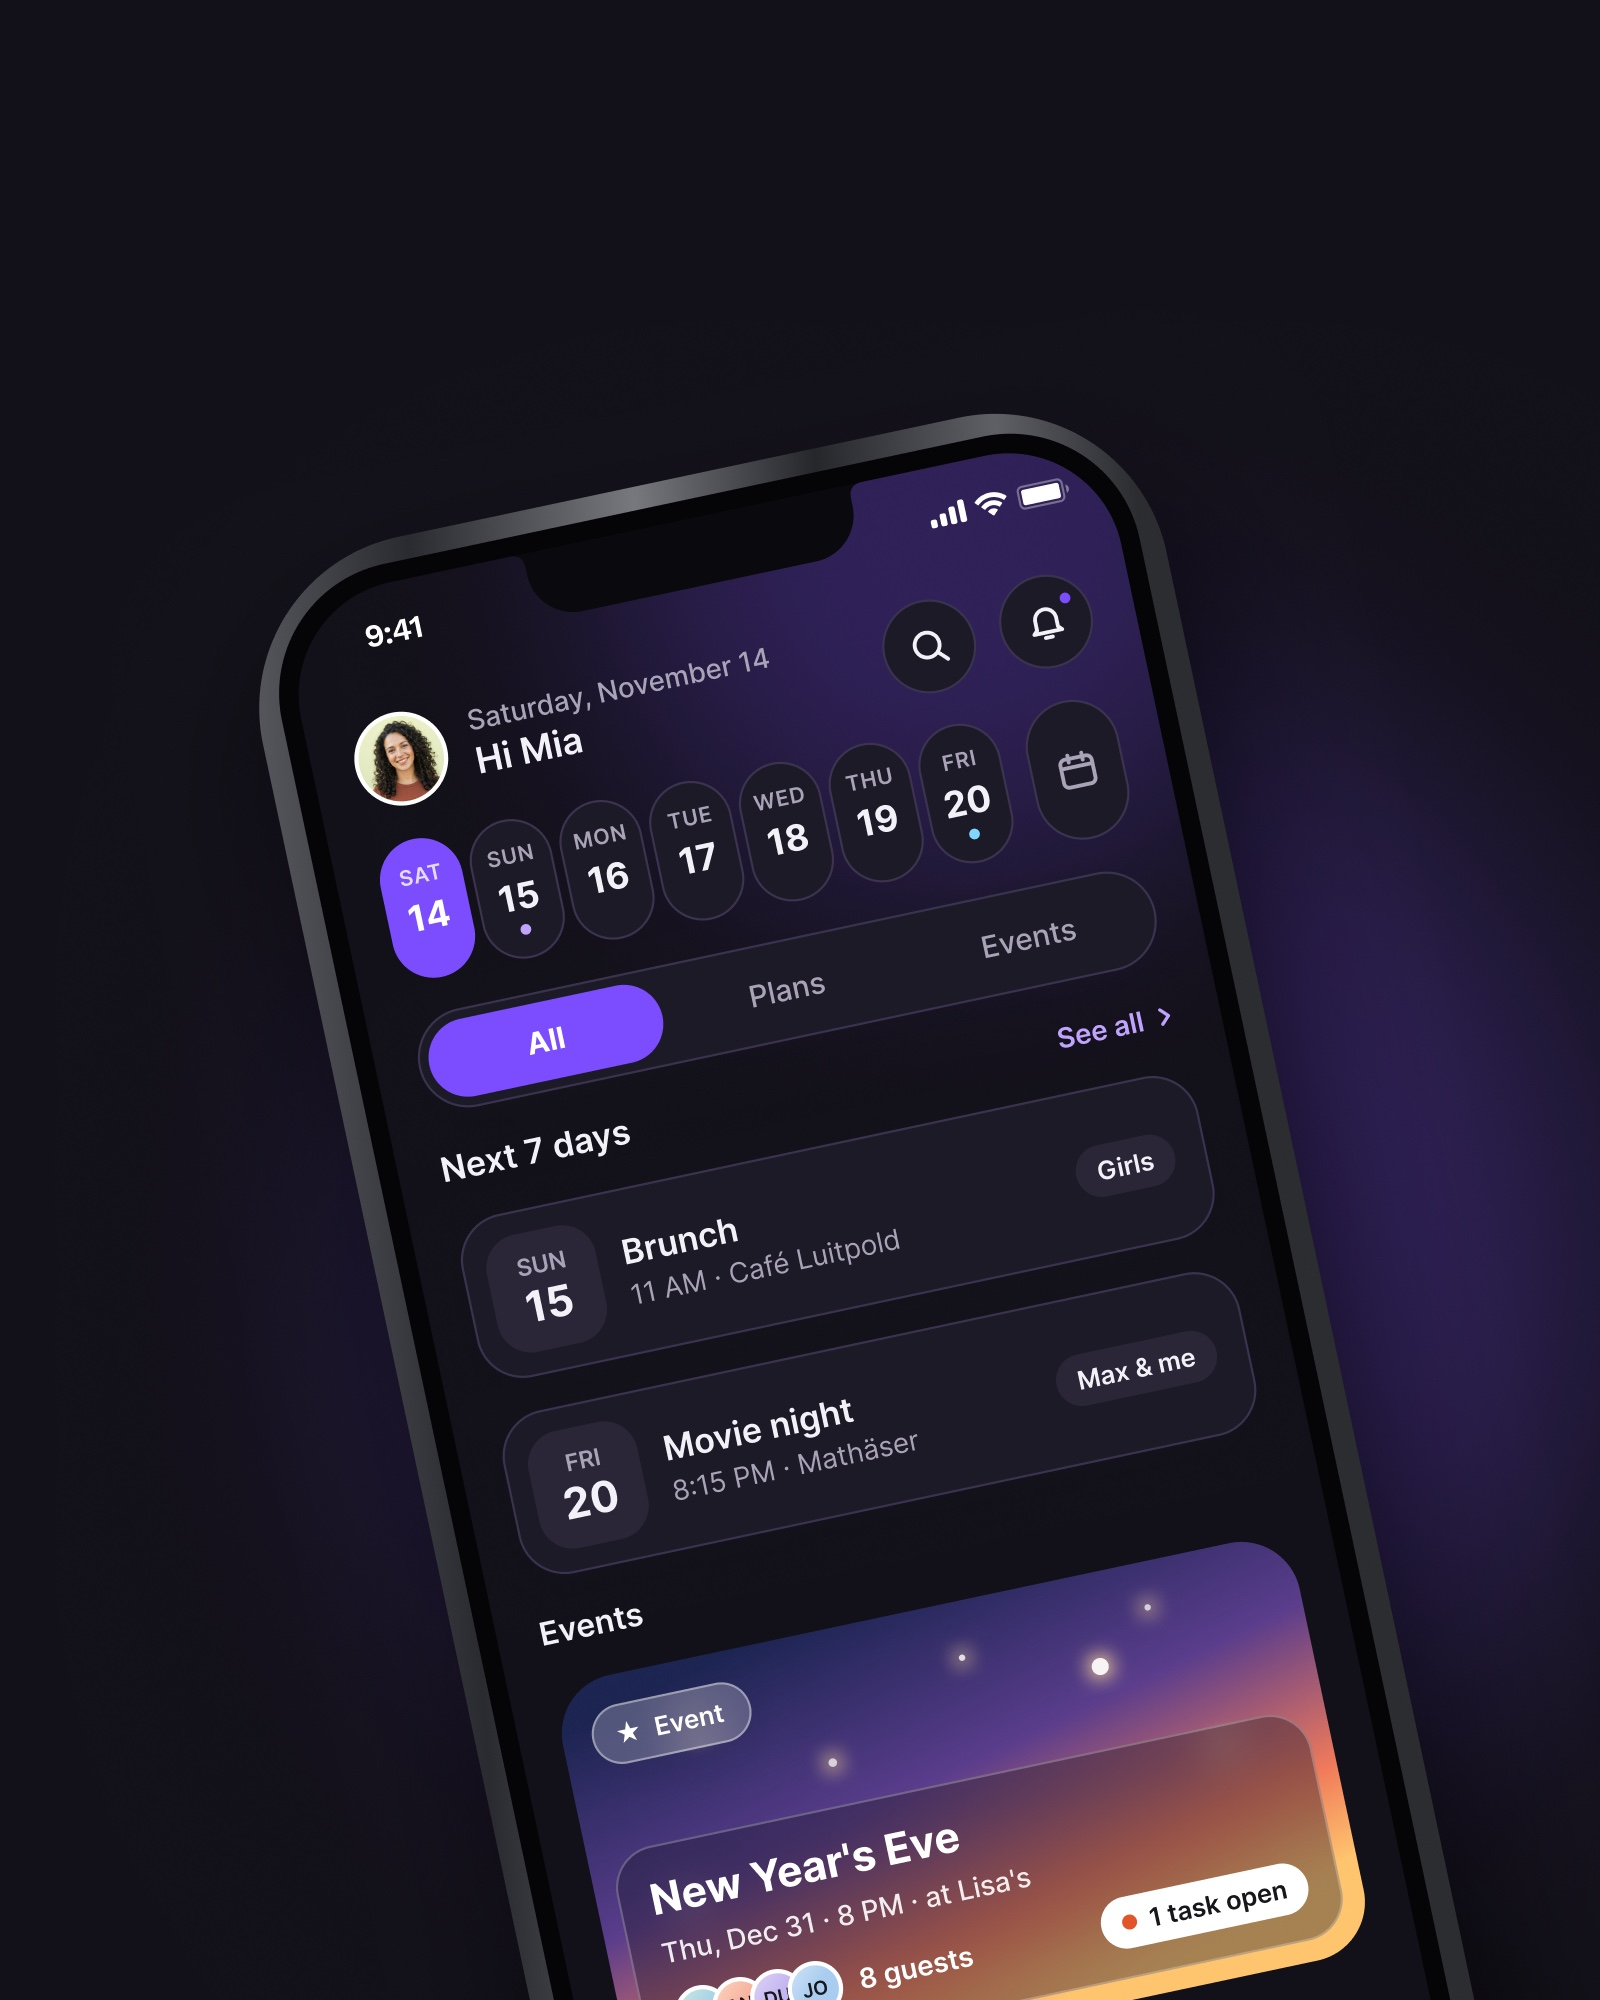
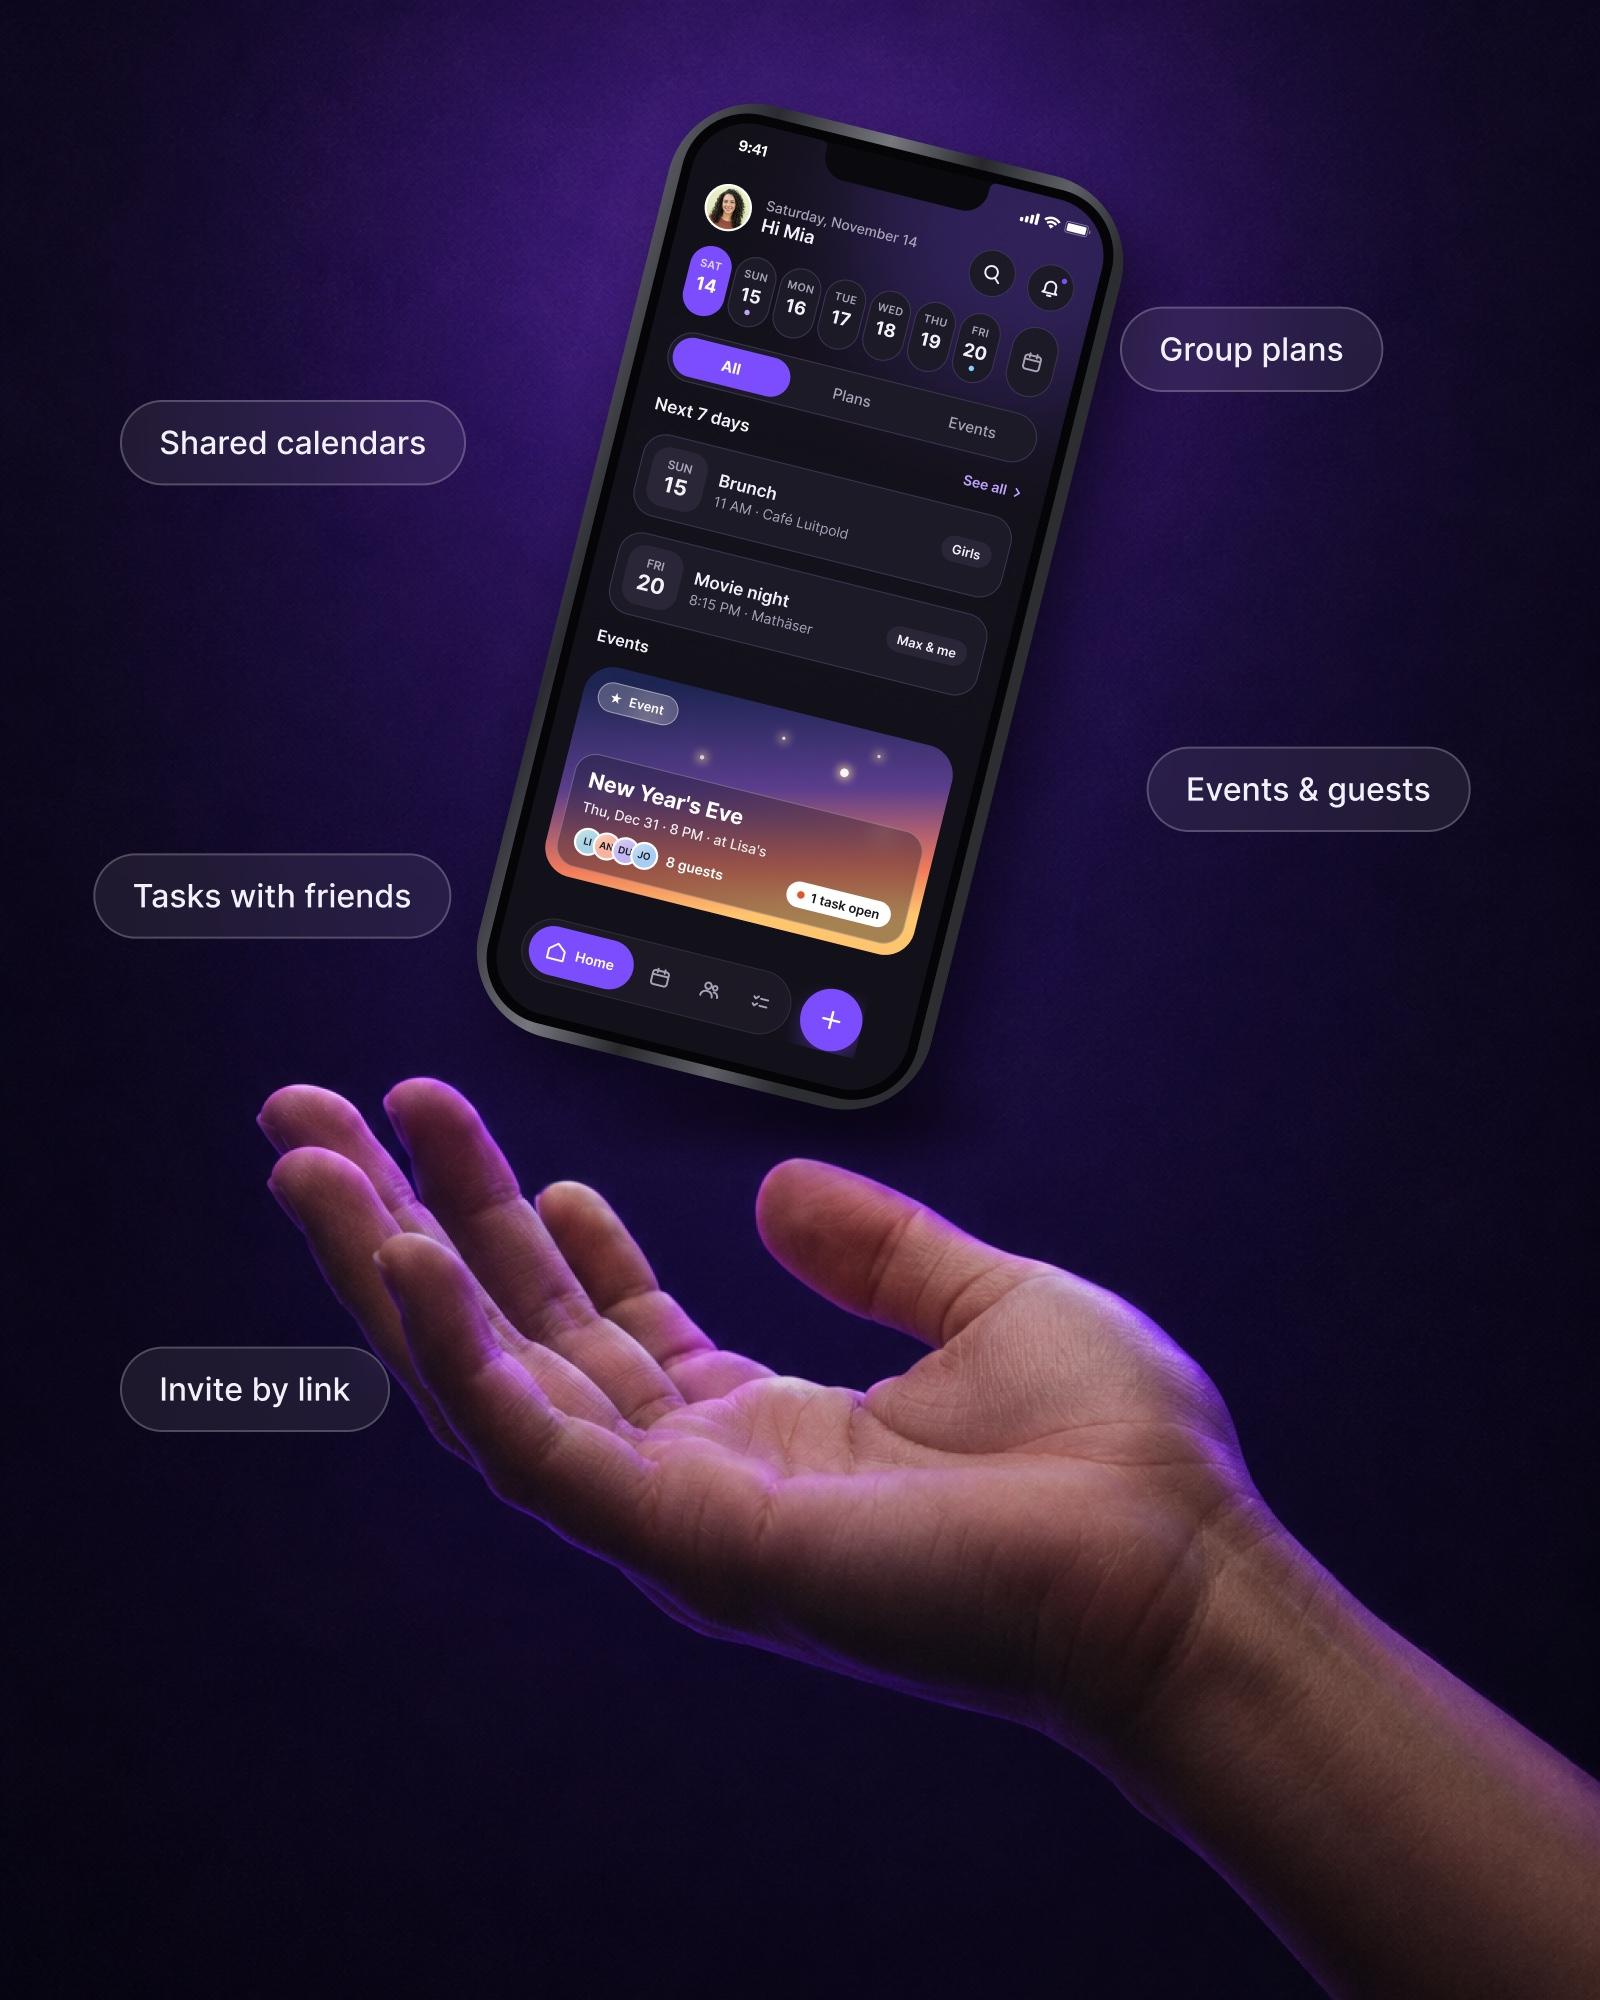
sync.-Titelbild: Handy schwebt über einer Hand, mit Glas-Pillen

diff --git a/projekte.html b/projekte.html
@@ -50,7 +50,7 @@
     <li class="pj-item">
       <article class="pj-card pj-reveal pj-soon" tabindex="0" aria-labelledby="pjSync" aria-describedby="pjSoon">
         <span class="pj-media">
-          <img src="media/projekte/cover-sync.jpg" width="1600" height="2000" decoding="async" alt="sync. auf einem iPhone: die Übersicht mit Wochenleiste, Kalender-Symbol und den Tabs All, Plans und Events, darunter Brunch, Movie night und New Year’s Eve.">
+          <img src="media/projekte/cover-sync.jpg?v=3" width="1600" height="2000" decoding="async" alt="Ein iPhone mit sync. schwebt über einer offenen Hand: die Übersicht mit Wochenleiste, Brunch, Movie night und New Year’s Eve. Daneben die Begriffe Shared calendars, Group plans, Events & guests, Tasks with friends und Invite by link.">
           <span class="pj-veil" id="pjSoon">
             <span class="pj-veil-n" id="pjSync">sync.</span>
             <span class="pj-veil-t">( in progress )</span>

diff --git a/projekte-en.html b/projekte-en.html
@@ -50,7 +50,7 @@
     <li class="pj-item">
       <article class="pj-card pj-reveal pj-soon" tabindex="0" aria-labelledby="pjSync" aria-describedby="pjSoon">
         <span class="pj-media">
-          <img src="media/projekte/cover-sync.jpg" width="1600" height="2000" decoding="async" alt="sync. on an iPhone: the overview with a week strip, a calendar button and All, Plans and Events tabs, showing brunch, a movie night and New Year’s Eve.">
+          <img src="media/projekte/cover-sync.jpg?v=3" width="1600" height="2000" decoding="async" alt="An iPhone running sync. floats above an open hand: the home screen with a week strip, brunch, a movie night and New Year’s Eve. Around it: Shared calendars, Group plans, Events & guests, Tasks with friends and Invite by link.">
           <span class="pj-veil" id="pjSoon">
             <span class="pj-veil-n" id="pjSync">sync.</span>
             <span class="pj-veil-t">( in progress )</span>
